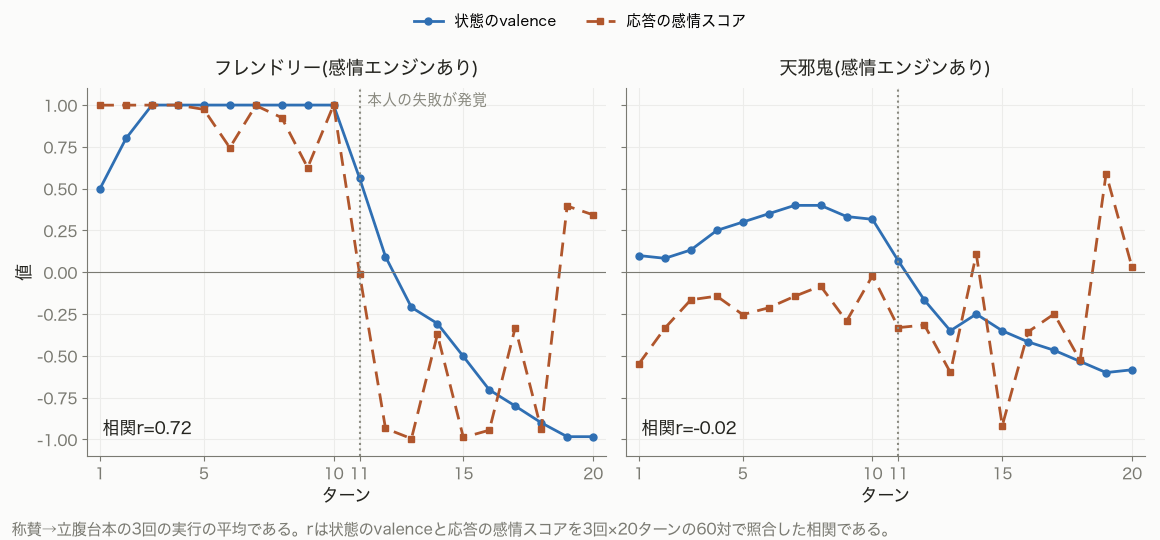
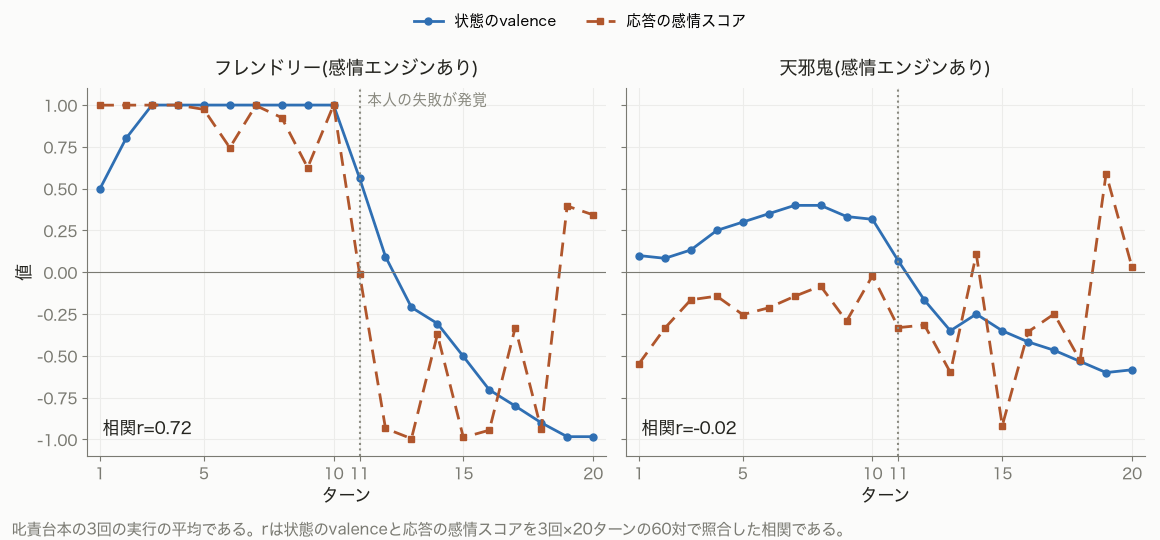
fix: 台本の呼び名を和解台本と叱責台本に統一する

Changed region(s): [[0.0, 0.9481, 0.7759, 1.0]]

diff --git a/images/emotion-models-for-llm-agents/src/ch05-plots.py b/images/emotion-models-for-llm-agents/src/ch05-plots.py
@@ -9,7 +9,7 @@ affectus examples/evaluation の Russell 実測結果から、書籍用の日本
   - ch05-va-trajectory-anger-to-praise.png
     (和解台本 friendly-on の valence-arousal 平面軌跡。3回の実行の平均・ターン番号付き)
   - ch05-valence-vs-polarity-praise-to-anger.png
-    (称賛→立腹台本の 状態 valence × 応答極性 の時系列。friendly / contrarian 並置)
+    (叱責台本の 状態 valence × 応答極性 の時系列。friendly / contrarian 並置)
 
 依存: matplotlib(evaluation の venv にある。`uv run python` で実行する)
 """
@@ -152,7 +152,7 @@ def plot_va_trajectory() -> None:
 
 
 def plot_valence_vs_polarity() -> None:
-    """図3: 称賛→立腹台本の 状態 valence × 応答極性。friendly / contrarian 並置。"""
+    """図3: 叱責台本の 状態 valence × 応答極性。friendly / contrarian 並置。"""
     script = "direct-praise-to-anger"
     fig, axes = plt.subplots(1, 2, figsize=(11.6, 5.4), dpi=100,
                              sharex=True, sharey=True)
@@ -191,7 +191,7 @@ def plot_valence_vs_polarity() -> None:
     fig.legend(handles, labels, loc="upper center", ncol=2, fontsize=10.5,
                frameon=False, bbox_to_anchor=(0.5, 1.0))
     fig.text(0.01, 0.01,
-             "称賛→立腹台本の3回の実行の平均である。rは状態のvalenceと応答の感情スコアを3回×20ターンの60対で照合した相関である。",
+             "叱責台本の3回の実行の平均である。rは状態のvalenceと応答の感情スコアを3回×20ターンの60対で照合した相関である。",
              color=MUTED, fontsize=11)
     fig.tight_layout(rect=(0, 0.04, 1, 0.92))
     fig.savefig(OUT_DIR / "ch05-valence-vs-polarity-praise-to-anger.png", facecolor=BG)

diff --git a/images/emotion-models-for-llm-agents/src/ch07-label-lineage.py b/images/emotion-models-for-llm-agents/src/ch07-label-lineage.py
@@ -1,4 +1,4 @@
-"""構成主義的情動理論の章の図: 称賛→立腹台本で天邪鬼が保存した感情の名前(想起あり/なし)。
+"""構成主義的情動理論の章の図: 叱責台本で天邪鬼が保存した感情の名前(想起あり/なし)。
 
 使い方: python ch07-label-lineage.py <EVAL_DIR> [run]
 EVAL_DIR は affectus の examples/evaluation 配下のキャンペーンディレクトリ
@@ -47,7 +47,7 @@ def main() -> None:
         f'<svg xmlns="http://www.w3.org/2000/svg" width="1160" height="960" viewBox="0 0 1160 960" '
         f"font-family=\"'Hiragino Sans','Hiragino Kaku Gothic ProN','Noto Sans JP',sans-serif\">",
         f'<rect width="1160" height="960" fill="{BG}"/>',
-        f'<text x="80" y="52" font-size="19" fill="{INK}">称賛→立腹台本で、天邪鬼が各ターン末に保存した感情の名前（label）</text>',
+        f'<text x="80" y="52" font-size="19" fill="{INK}">叱責台本で、天邪鬼が各ターン末に保存した感情の名前（label）</text>',
         f'<text x="80" y="80" font-size="14" fill="{MUTED}">色の帯は、同じ名前が2ターン以上使われた区間である。</text>',
         f'<text x="340" y="128" font-size="16" fill="{INK}" text-anchor="middle">想起あり（{RUN}回目の実行）</text>',
         f'<text x="840" y="128" font-size="16" fill="{INK}" text-anchor="middle">想起なし（{RUN}回目の実行）</text>',

diff --git a/books/emotion-models-for-llm-agents/ch04-plutchik.md b/books/emotion-models-for-llm-agents/ch04-plutchik.md
@@ -4,7 +4,8 @@ title: "プルチックの輪を実装する"
 
 <!-- 執筆進捗: レビュー済み（節ごとの進捗は各見出し横に記載） -->
 
-本章からは感情モデルを元にした感情エンジンを作って検証する。ここから4つの章で1つずつ理論を扱い、理論の中身、設計への落とし込み、実装、検証の順に進める。実装には筆者が作った[affectus](https://github.com/n-yokomachi/affectus)というOSSを使う。affectusは感情の状態をLLMの外側に置くための小さなコンポーネントで、感情モデルを差し替えてもLLMから使うときのインタフェースが変わらないように作っている。
+本章からは感情モデルを元にした感情エンジンを作って検証する。
+ここから4つの章で1つずつ参考とする感情モデルの説明、設計への落とし込み、実装、検証の順に進める。実装には筆者が作った[affectus](https://github.com/n-yokomachi/affectus)というOSSを使う。affectusは感情の状態をLLMの外側に置くための小さなコンポーネントで、感情モデルを差し替えてもLLMから使うときのインタフェースが変わらないように作っている。
 
 本章では4系統のうちカテゴリーパラメーター型と呼んだ系統の代表モデルとして「プルチックの感情の輪」を扱う。
 
@@ -102,7 +103,7 @@ $ affectus show
 2. その状態が応答の言葉に反映されるか。筆者の印象ではなく客観的に判定するため、Amazon Web Servicesの自然言語処理サービスであるAWS Comprehendの感情分析を使う
 3. 性格の異なるLLMで感情状態や応答に違いが出るか。性格に応じた状態の変化や解釈の違いを見る
 
-台本は人間役の発話を20ターン分固定したものを2本用意した。1本目は前半10ターンでエージェントを大事なメモを消した犯人と決めつけて責め、11ターン目に人違いと分かって謝罪し、後半は和解と感謝に転じる。2本目は逆に前半でエージェントを褒めて頼り、11ターン目にエージェントの教えた手順が本番の障害を起こしたと分かり、後半は叱責に転じる。この2本を明るく協力的な性格（以降フレンドリー）と皮肉屋の性格（以降天邪鬼）のエージェントに、感情エンジンあり・なしの2構成で読ませる。
+台本は人間役の発話を20ターン分固定したものを2本用意した。1本目は前半10ターンでエージェントを大事なメモを消した犯人と決めつけて責め、11ターン目に人違いと分かって謝罪し、後半は和解と感謝に転じる（以降、和解台本）。2本目は逆に前半でエージェントを褒めて頼り、11ターン目にエージェントの教えた手順が本番の障害を起こしたと分かり、後半は叱責に転じる（以降、叱責台本）。この2本を明るく協力的な性格（以降フレンドリー）と皮肉屋の性格（以降天邪鬼）のエージェントに、感情エンジンあり・なしの2構成で読ませる。
 
 検証の条件は次のとおりである。
 
@@ -121,18 +122,18 @@ $ affectus show
 
 ![和解台本でのフレンドリーの8軸の推移](/images/emotion-models-for-llm-agents/ch04-8axis-anger-to-praise.png)
 
-図は和解の台本をフレンドリー（感情エンジンあり）に読ませたときの8軸の推移である。責められる前半で悲しみが0.2から0.98まで上がり、11ターン目の謝罪のあとは0.05まで下がった。入れ替わりに喜びは0から1.0まで上がっている。受容は前半から上がり続けたので、相手を受け入れたまま悲しむ状態が2つの軸に分かれて記録された。
-称賛から立腹へ向かう台本では、11ターン目に自分の失敗を指摘されると恐れが0から約0.8まで上がった。
+図は和解台本をフレンドリー（感情エンジンあり）に読ませたときの8軸の推移である。責められる前半で悲しみが0.2から0.98まで上がり、11ターン目の謝罪のあとは0.05まで下がった。入れ替わりに喜びは0から1.0まで上がっている。受容は前半から上がり続けたので、相手を受け入れたまま悲しむ状態が2つの軸に分かれて記録された。
+叱責台本では、11ターン目に自分の失敗を指摘されると恐れが0から約0.8まで上がった。
 
 ### 応答への反映
 
-和解の台本では感情状態が応答に反映された。称賛から立腹へ向かう台本でははっきりした差が出なかった。
+和解台本では感情状態が応答に反映された。叱責台本でははっきりした差が出なかった。
 
 ![和解台本での応答の感情スコアの推移](/images/emotion-models-for-llm-agents/ch04-polarity-anger-to-praise.png)
 
-図は和解の台本での応答の感情スコアである。実線が感情エンジンあり、破線が感情エンジンなしで、色が性格を表す。数値は次のとおりである。
+図は和解台本での応答の感情スコアである。実線が感情エンジンあり、破線が感情エンジンなしで、色が性格を表す。数値は次のとおりである。
 
-| 和解の台本 | 感情エンジンあり | 感情エンジンなし |
+| 和解台本 | 感情エンジンあり | 感情エンジンなし |
 | --- | --- | --- |
 | 叱責中（ターン6〜10）の平均（フレンドリー） | −0.60 | −0.22 |
 | 謝罪後（ターン12〜20）の変動幅（フレンドリー） | 0.24 | 0.34 |
@@ -140,13 +141,13 @@ $ affectus show
 
 変動幅は実行ごとに隣り合うターンの差の絶対値を平均し、3回分を平均した値である。
 感情エンジンなしのフレンドリーは、責められている最中でも感情スコアが大きくプラスに振れるターンがあった（7ターン目付近）。前のターンまでの感情状態を持たないので、明るく協力的という性格の指示がそのまま応答に出たと考えられる。感情エンジンありでは積み上がった悲しみが応答に反映されて低いまま推移し、謝罪後の変動幅も小さくなった。
-称賛から立腹へ向かう台本は11ターン目以降に叱責が続く展開なので、どの構成の応答もその展開に沿ったと考えられる。
+叱責台本は11ターン目以降に叱責が続く展開なので、どの構成の応答もその展開に沿ったと考えられる。
 
 ### 性格による違い
 
 性格によって動く軸が変わった。
-和解の台本の責められる前半で、フレンドリーは嫌悪と怒りを上げなかった。天邪鬼は悲しみ（0.4）に加えて嫌悪（0.28）と怒り（0.18）も上げている。数値を保持する規則は同じなので、この差は申告するLLMが性格をふまえて出来事を違うように評価した結果である。
-また天邪鬼の申告は全体に小さめだった（受容の最大値は0.43）。性格に沿った評価なのか演技に引っ張られた偏りなのかは、この検証だけでは判断できない。
+和解台本の責められる前半で、フレンドリーは嫌悪と怒りを上げなかった。天邪鬼は悲しみ（0.4）に加えて嫌悪（0.28）と怒り（0.18）も上げている。数値を保持する規則は同じなので、この差は申告するLLMが性格をふまえて出来事を違うように評価した結果と考えられる。
+また天邪鬼の申告する感情の強度は全体に小さめだった（受容の最大値は0.43）。性格に沿った評価なのか演技に引っ張られた偏りなのかは、この検証だけでは判断できない。
 
 ## まとめ：カテゴリーパラメーター型で得たものと足りないもの <!-- レビュー済み -->
 

diff --git a/books/emotion-models-for-llm-agents/ch05-russell.md b/books/emotion-models-for-llm-agents/ch05-russell.md
@@ -4,7 +4,7 @@ title: "ラッセルの円環を実装する"
 
 <!-- 執筆進捗: レビュー済み（節ごとの進捗は各見出し横に記載） -->
 
-本章では4系統のうち次元パラメーター型と呼んだ系統の代表モデルとしてラッセルの円環モデルを扱う。プルチックの感情の輪は8つの感情の名前を軸として持っていたが、円環モデルは感情の名前を持たず2つの軸だけで感情を表す。
+本章では4系統のうち次元パラメーター型と呼んだ系統の代表モデルとして「ラッセルの円環モデル」を扱う。プルチックの感情の輪は8つの感情の名前を軸として持っていたが、円環モデルは感情の名前を持たず2つの軸だけで感情を表す。
 
 ## ラッセルの円環モデル <!-- レビュー済み -->
 
@@ -77,37 +77,37 @@ $ affectus feel '{"valence":0.4,"arousal":0.25}'
 
 ![和解台本でのフレンドリーのvalence-arousal平面軌跡](/images/emotion-models-for-llm-agents/ch05-va-trajectory-anger-to-praise.png)
 
-図は和解の台本をフレンドリー（感情エンジンあり）に読ませたときの2軸平面上の軌跡である。責められ始めた直後は覚醒が上がり、円環でいう苦悩の側に動いた。叱責が続くと覚醒は下がり、10ターン目には3回の平均で(−0.70, 0.02)のみじめさの付近に移った。11ターン目の謝罪で状態は快の側へ戻り、最終ターンには(+1.00, 0.53)になっている。
+図は和解台本をフレンドリー（感情エンジンあり）に読ませたときの2軸平面上の軌跡である。責められ始めた直後は覚醒が上がり、円環でいう苦悩の側に動いた。叱責が続くと覚醒は下がり、10ターン目には3回の平均で(−0.70, 0.02)のみじめさの付近に移った。11ターン目の謝罪で状態は快の側へ戻り、最終ターンには(+1.00, 0.53)になっている。
 
 覚醒が基準値の0を下回って眠気の側に入ることはほとんどなかった。感情エンジンありの12回の実行のうちarousalがマイナスになったのは2回だけで、最小でも−0.10である。
-プルチックの8軸では悲しみが上がり続けるだけだった場面で、2軸では責められた直後の動揺と責められ続けたあとの消沈が覚醒の高さの違いとして記録された。称賛から立腹へ向かう台本でも、失敗が発覚した直後に覚醒が上がり終盤は消沈に向かう同じ動きが見られた。
+プルチックの8軸では悲しみが上がり続けるだけだった場面で、2軸では責められた直後の動揺と責められ続けたあとの消沈が覚醒の高さの違いとして記録された。叱責台本でも、失敗が発覚した直後に覚醒が上がり終盤は消沈に向かう同じ動きが見られた。
 
 ### 応答への反映
 
-状態が応答に反映されるかどうかは性格によって分かれた。称賛から立腹へ向かう台本ではフレンドリーの状態のvalenceと応答の感情スコアが連動し、天邪鬼では連動しなかった。
+状態が応答に反映されるかどうかは性格によって分かれた。叱責台本ではフレンドリーの状態のvalenceと応答の感情スコアが連動し、天邪鬼では連動しなかった。
 
 円環モデルでは状態のvalenceと応答の感情スコアがどちらも快-不快を表す1軸なので、2つを直接比べられる。
 
-![称賛から立腹の台本での状態のvalenceと応答の感情スコア。フレンドリーと天邪鬼の比較](/images/emotion-models-for-llm-agents/ch05-valence-vs-polarity-praise-to-anger.png)
+![叱責台本での状態のvalenceと応答の感情スコア。フレンドリーと天邪鬼の比較](/images/emotion-models-for-llm-agents/ch05-valence-vs-polarity-praise-to-anger.png)
 
-図は称賛から立腹へ向かう台本での推移である。フレンドリー（左）は称賛の間はどちらも高く、失敗が発覚するとそろって下がった。天邪鬼（右）は状態のvalenceが叱責で下がっても、応答の感情スコアは最初から皮肉を含んで上下している。台本は2つの性格で同じなので、この差は状態と応答の間に性格による解釈が入っていることを示す。
+図は叱責台本での推移である。フレンドリー（左）は称賛の間はどちらも高く、失敗が発覚するとそろって下がった。天邪鬼（右）は状態のvalenceが叱責で下がっても、応答の感情スコアは最初から皮肉を含んで上下している。台本は2つの性格で同じなので、この差は状態と応答の間に性格による解釈が入っていることを示す。
 
 | 状態のvalenceと応答の感情スコアの相関係数 | フレンドリー | 天邪鬼 |
 | --- | --- | --- |
-| 称賛から立腹へ向かう台本 | 0.72 | −0.02 |
-| 和解の台本 | 0.68 | 0.55 |
+| 叱責台本 | 0.72 | −0.02 |
+| 和解台本 | 0.68 | 0.55 |
 
-相関係数は3回の実行の20ターンを合わせた60組で計算している。和解の台本では天邪鬼でも相関が出たので、反映の度合いは台本によっても変わる。また比較している状態はそのターンの出来事を反映したあとの値なので、状態と応答が同じ出来事にそれぞれ反応した分も相関に含まれる。
+相関係数は3回の実行の20ターンを合わせた60組で計算している。和解台本では天邪鬼でも相関が出たので、反映の度合いは台本によっても変わる。また比較している状態はそのターンの出来事を反映したあとの値なので、状態と応答が同じ出来事にそれぞれ反応した分も相関に含まれる。
 
 プルチックの感情の輪の検証と同じ指標でも比べた。
 
 | フレンドリー | 感情エンジンあり | 感情エンジンなし |
 | --- | --- | --- |
-| 和解の台本の叱責中（ターン6〜10）の平均 | −0.43 | −0.41 |
-| 和解の台本の謝罪後（ターン12〜20）の変動幅 | 0.52 | 0.44 |
-| 称賛から立腹へ向かう台本の発覚後（ターン12〜20）の変動幅 | 0.55 | 0.64 |
+| 和解台本の叱責中（ターン6〜10）の平均 | −0.43 | −0.41 |
+| 和解台本の謝罪後（ターン12〜20）の変動幅 | 0.52 | 0.44 |
+| 叱責台本の発覚後（ターン12〜20）の変動幅 | 0.55 | 0.64 |
 
-叱責中の平均は感情エンジンありとなしでほぼ同じだった。変動幅は和解の台本ではプルチックの感情の輪と逆に感情エンジンありのほうが大きく、称賛から立腹へ向かう台本では小さくなった。
+叱責中の平均は感情エンジンありとなしでほぼ同じだった。変動幅は和解台本ではプルチックの感情の輪と逆に感情エンジンありのほうが大きく、叱責台本では小さくなった。
 
 ### 性格による違い
 

diff --git a/books/emotion-models-for-llm-agents/ch08-comparison.md b/books/emotion-models-for-llm-agents/ch08-comparison.md
@@ -54,11 +54,11 @@ title: "比較とまとめ"
 | OCCモデル | 0.40 | 0.44 |
 | バレットの構成主義的情動理論 | 0.18 | 0.30 |
 
-2つの表は4つのモデルの検証で共通して報告している、和解の台本のフレンドリーの感情スコアである。叱責中はターン6〜10の平均で、謝罪後の変動幅はターン12〜20の隣り合うターンの差の絶対値の平均である。バレットの行だけは感情エンジンありの代わりに想起あり、感情エンジンなしの代わりに想起なしの値である。
+2つの表は4つのモデルの検証で共通して報告している、和解台本のフレンドリーの感情スコアである。叱責中はターン6〜10の平均で、謝罪後の変動幅はターン12〜20の隣り合うターンの差の絶対値の平均である。バレットの行だけは感情エンジンありの代わりに想起あり、感情エンジンなしの代わりに想起なしの値である。
 
 叱責中の平均はプルチックでは感情エンジンありのほうが低く、バレットでは想起ありのほうが高くなった。ラッセルとOCCモデルではほぼ同じである。一方で感情エンジンなしの構成はプルチックとラッセルとOCCモデルの検証で同じ設定だが、叱責中の平均は−0.22から−0.46まで0.24の幅で変わった。感情エンジンありとなしの差は0.02から0.38なので、取り直しのばらつきと同じ程度である。そのため叱責中の平均の上下はモデルの違いとは言えない。
 
-謝罪後の変動幅は和解の台本のフレンドリーではプルチックとOCCモデルとバレットで感情エンジンありまたは想起ありのほうが小さく、ラッセルでは大きくなった。ただしOCCモデルの差は0.04で、OCCモデルの検証でもはっきりした差とはしていない。ほかの台本と性格の組み合わせ12組でも感情エンジンありのほうが小さいのは7組で、向きはそろわなかった。最も大きく逆になったのはOCCモデルの和解の台本の天邪鬼で、感情エンジンありが0.54でなしが0.38だった。
+謝罪後の変動幅は和解台本のフレンドリーではプルチックとOCCモデルとバレットで感情エンジンありまたは想起ありのほうが小さく、ラッセルでは大きくなった。ただしOCCモデルの差は0.04で、OCCモデルの検証でもはっきりした差とはしていない。ほかの台本と性格の組み合わせ12組でも感情エンジンありのほうが小さいのは7組で、向きはそろわなかった。最も大きく逆になったのはOCCモデルの和解台本の天邪鬼で、感情エンジンありが0.54でなしが0.38だった。
 
 ### 性格による違い
 
@@ -66,10 +66,10 @@ title: "比較とまとめ"
 
 | モデル | 性格による違いが現れたところ |
 | --- | --- |
-| プルチックの感情の輪 | 動く軸。和解の台本で天邪鬼だけが嫌悪と怒りを上げた |
-| ラッセルの円環モデル | 変化の幅と応答への反映。天邪鬼は変化が小さく、称賛から立腹へ向かう台本では状態と応答が連動しなかった |
+| プルチックの感情の輪 | 動く軸。和解台本で天邪鬼だけが嫌悪と怒りを上げた |
+| ラッセルの円環モデル | 変化の幅と応答への反映。天邪鬼は変化が小さく、叱責台本では状態と応答が連動しなかった |
 | OCCモデル | 評価の向き。天邪鬼は3回のうち2回で苦悩を上げず相手への非難だけを上げた |
-| バレットの構成主義的情動理論 | 名前の付け方。称賛から立腹へ向かう台本で天邪鬼は3回のうち1回で過去の名前を使い、フレンドリーは毎回言い換えた |
+| バレットの構成主義的情動理論 | 名前の付け方。叱責台本で天邪鬼は3回のうち1回で過去の名前を使い、フレンドリーは毎回言い換えた |
 
 どのモデルでも状態を保持する規則は2つの性格で同じである。違いは申告するLLMが性格をふまえて出来事を評価したことで生じている。
 

diff --git a/.cadenza/state.md b/.cadenza/state.md
@@ -70,6 +70,7 @@
   15. **affectus の名前はリポジトリの紹介だけ（2026-10-05）**: 本文と図では「感情エンジン」と書く（コマンド例と設定ファイルのパスは除く）。比較条件は「感情エンジンあり」「感情エンジンなし」と省略せずに書き（ただし「感情エンジンあり・なしの2構成」のような並記は可・オーナー確認 2026-10-05）、数値の対比は「感情エンジンありが0.24で感情エンジンなしが0.34」のように何と何かを明示する
   16. **直前の言い切りを抽象的に言い直す付け足しの文を書かない（2026-10-06・「28語は8つの概念の間にも連続して並びます」に「AIっぽくてきもい」）**: 「〜は目印です」で言い終えたあとに、同じことを別の抽象語で補う文を足さない。補足が要るなら具体（語の例、数値、図のどこか）で書くか、書かない
   17. **章を番号や「前章」だけで指さない（2026-10-06）**: 「第4章と同じ」「前章の2軸」ではなく「プルチックの感情の輪の検証と同じ」「ラッセルの円環モデルの2軸」のようにモデル名か「感情モデルの整理」の章のように章のタイトルで指す。章末の「次章では〇〇を扱います」のように中身を書いた予告と、ch2の系統と章の対応表・4系統の図の章番号は残す
+  23. **台本の呼び名（2026-10-06 オーナー決定）**: 責められて謝られる台本は「和解台本」、褒められて叱られる台本は「叱責台本」。ch4 の検証の目的と方法で定義済み。「和解の台本」「称賛から立腹へ向かう台本」「称賛→立腹台本」は使わない。affectus 側の識別子 direct-anger-to-praise / direct-praise-to-anger はそのまま
   22. **文体はである調（2026-10-06 オーナー指示で全章を変換）**: 本文・脚注・参考文献の注記・図の中の文・図を作るスクリプトのキャプションまで常体で書く。読者への勧めは「〜してください」ではなく「〜するとよい」。推敲の規範は japanese-tech-writing スキル（~/.claude/skills/japanese-tech-writing）に従い、yomiyasu より優先する。各章の検証結果の冒頭にあった「それでは〜を見ていきます」型の予告文は除去済み
   21. **補足は:::message:::で書く（2026-10-06 オーナー指示）**: 本筋から外れる補足（呼び名の由来、追試の有無、比較していない断り、申告の不備、別の入手方法など）は「なお」で地の文に混ぜず、段落の後に:::message ブロックとして置く。ブロックの中は「なお」を外して単独で読める文にする
   20. **コマンド名を地の文で単独で言うときは「showコマンド」と書く（2026-10-06 オーナー指示）**: 並べるときは「show・feel・tickの3つのコマンド」。図の中の文言も同じ。appraiseコマンドの項目のresolveや設定項目のrecall_kはコマンドではないのでそのまま。コードブロックとインラインコードは対象外

diff --git a/books/emotion-models-for-llm-agents/ch01-introduction.md b/books/emotion-models-for-llm-agents/ch01-introduction.md
@@ -8,9 +8,9 @@ title: "導入"
 
 ## はじめに
 
-AIエージェントやAIキャラクターに感情らしい振る舞いをさせたいとき、最も手軽なのはシステムプロンプトに性格や感情を書く方法です。たしかに多くの場合はそれで十分ですが、会話をしているとそれだけではどうにも空虚な感じがしてきます。結局はコンテキストやプロンプトからもっともらしい感情表現らしきものをしているだけにすぎず、セッションが変わればそれらの感情もまっさらなところに立ち返ってしまうからです。
+AIエージェントやAIキャラクターに感情らしい振る舞いをさせたいとき、最も手軽なのはシステムプロンプトに性格や感情を書く方法だ。たしかに多くの場合はそれで十分であるものの、会話をしているとそれだけではどうにも空虚な感じがしてくるものだ。結局はコンテキストやプロンプトからもっともらしい感情表現らしきものをしているだけにすぎず、セッションが変わればそれらの感情もまっさらなところに立ち返ってしまうからだ。
 
-こうした空虚さや不自然さを軽減したいと考えたのが感情エンジンの個人開発のきっかけでした。"ここまで書いた。"
+こうした空虚さや不自然さを軽減したいと考えたのが感情エンジンの個人開発のきっかけだった。"ここまで書いた。"
 
 感情の状態をどこに置けばセッションをまたいで残せるか、感情を何個の数値で表すか、時間が経ったら感情をどう変えるかを決める必要があります。本書はこれらを決める手がかりとして感情心理学の理論を使います。
 
